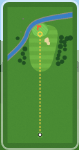
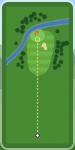
Course: trees behind every green (owner, GENRE_NOTES L11), room around greens inside OB, test that the approach is never blocked
Claude-Session: https://claude.ai/code/session_01Rv6NgAADw2XvfsDiNgoB5v

diff --git a/src/holes/mtn-course.js b/src/holes/mtn-course.js
@@ -132,7 +132,13 @@ const SCENERY = {
 //   ob: { x0, x1, z0, z1 }   out-of-bounds box; map = the box + margin
 //   banks: k  how fast the rough rises away from the fairway (m per m beyond 8 m), default 0.03
 //   obstacles: [...]  trees and boulders
-export function makeMtnHole(spec) {
+export function makeMtnHole(spec0) {
+  // the OB line keeps at least 40 m of rough around the green, so the trees behind it fit in bounds
+  const g0 = spec0.green, m0 = 40;
+  const spec = { ...spec0, ob: {
+    x0: Math.min(spec0.ob.x0, g0.cx - g0.rx - m0), x1: Math.max(spec0.ob.x1, g0.cx + g0.rx + m0),
+    z0: Math.min(spec0.ob.z0, g0.cz - g0.rz - m0), z1: Math.max(spec0.ob.z1, g0.cz + g0.rz + m0),
+  } };
   const fringeW = spec.fringe ?? 2.2;
   const G = spec.green;
   const base = spec.base ?? (() => 0);
@@ -365,6 +371,25 @@ function plantForest(hole, spec, fairways) {
     }
     return hole.surfaceAt(x, z) === 'rough';
   };
+  // Behind the green (owner, 2026-11-18, GENRE_NOTES screenshot 3): an arc of trees on the rough
+  // around the back of the green, framing the target. Far enough back (backGap m beyond the fringe)
+  // that a ball running a little long is a chip, never stuck behind trunks; never between the
+  // approach and the green (the arc only covers the back half, seen from where approaches come from).
+  const G = spec.green, back = f.back ?? {};
+  if (back !== false && f.back !== false) {
+    const from = spec.approachFrom ?? (spec.playLine ? spec.playLine[spec.playLine.length - 2] : spec.tee);
+    const ax = G.cx - from.x, az = G.cz - from.z, aL = Math.hypot(ax, az), bx = ax / aL, bz = az / aL;
+    const R = Math.max(G.rx, G.rz) + 2.2 + (back.gap ?? 13), span = back.span ?? 1.35; // ±77°
+    for (let row = 0; row < (back.rows ?? 2); row++) {
+      const rr = R + row * 8, n = Math.round(2 * span * rr / (back.spacing ?? 9));
+      for (let i = 0; i <= n; i++) {
+        const a = -span + 2 * span * i / n + (r() - 0.5) * 0.08;
+        const c = Math.cos(a), sn = Math.sin(a), dx = bx * c - bz * sn, dz = bx * sn + bz * c;
+        const d = rr + (r() - 0.5) * 4;
+        spots.push({ x: G.cx + dx * d, z: G.cz + dz * d, s: s0 + r() * (s1 - s0) });
+      }
+    }
+  }
   let trees = spots
     .filter(t => t.x > OB.x0 + 3 && t.x < OB.x1 - 3 && t.z > OB.z0 + 3 && t.z < OB.z1 - 3)
     .filter(t => Math.hypot(t.x - hole.tee.x, t.z - hole.tee.z) > 16)

diff --git a/tests/mtn.test.js b/tests/mtn.test.js
@@ -210,3 +210,19 @@ test('mtn-09: reachable in two with good, not perfect shots; the safe lay-up lea
   }
   assert.ok(kiss, 'the fairway touches the lake edge');
 });
+
+test('Mountain 9: the trees behind the greens frame them but never block the normal approach (owner, L11)', () => {
+  for (const h of MTN) {
+    if (h.par === 3) continue; // a par 3's tee shot is the approach: checked by validateHole (K8)
+    const p = startAt(h);
+    shot(p); // the default first shot
+    if (h.par === 5) shot(p);
+    if (p.finished || p.lie === 'green') continue;
+    const pin = Math.min(p.pinPower(), p.lieOf().maxPower);
+    const w = p.aimWarning(p.clubIdx, p.aim, pin);
+    assert.equal(w, null, `${h.id}: the ⚑ approach from (${p.ball.pos.x.toFixed(0)}, ${p.ball.pos.z.toFixed(0)}) hits ${w && w.kind} ${w && w.dist.toFixed(0)} m out`);
+    // there are trees behind the green
+    const g = h.features.green, behind = h.obstacles.filter(o => o.type === 'tree' && Math.hypot(o.x - g.cx, o.z - g.cz) < Math.max(g.rx, g.rz) + 35);
+    assert.ok(behind.length >= 5, `${h.id}: only ${behind.length} trees near the green`);
+  }
+});

diff --git a/docs/GENRE_NOTES.md b/docs/GENRE_NOTES.md
@@ -103,6 +103,7 @@ Alexis played the Mountain 9 prototype. These are rules from now on (his words w
 | L8 | **A creek presented as an obstacle must be big enough to be one.** Creek beds widen where they reach a lake (no "balloon"). | Creeks that are in play are 5–8 m of water; the bed widens smoothly into the lake. |
 | L9 | **The fairway approach merges smoothly into the green.** | The approach widens to the green's width and runs into its fringe, no neck. |
 | L10 | **Creeks meander and vary in width, and widen into lakes; check the minimap by eye for lines and balloons** (PM fix pass, holes 4, 7, 9). | Gentle S-bends, width that breathes, a delta where the bed meets the lake; lakes are blobs, not circles. |
+| L11 | **"Tree rules depend on the biome. Forest and mountain courses need lots of trees: along the fairways and behind the greens. Other biomes (seaside, desert, tropical) get their own rule in their genre talk."** (owner, 2026-11-18) | Mountain kit: tree lines along every fairway plus an arc of trees on the rough behind each green (≥ 13 m beyond the fringe, a long ball is a chip), never between the approach and the green, never hiding the flag. |
 
 ## 6b. Ideas for later courses (not the prototype)
 - **Ocean course** (owner): the coast is lined with either **rocks** or **sand**, depending on the theme we pick together:
